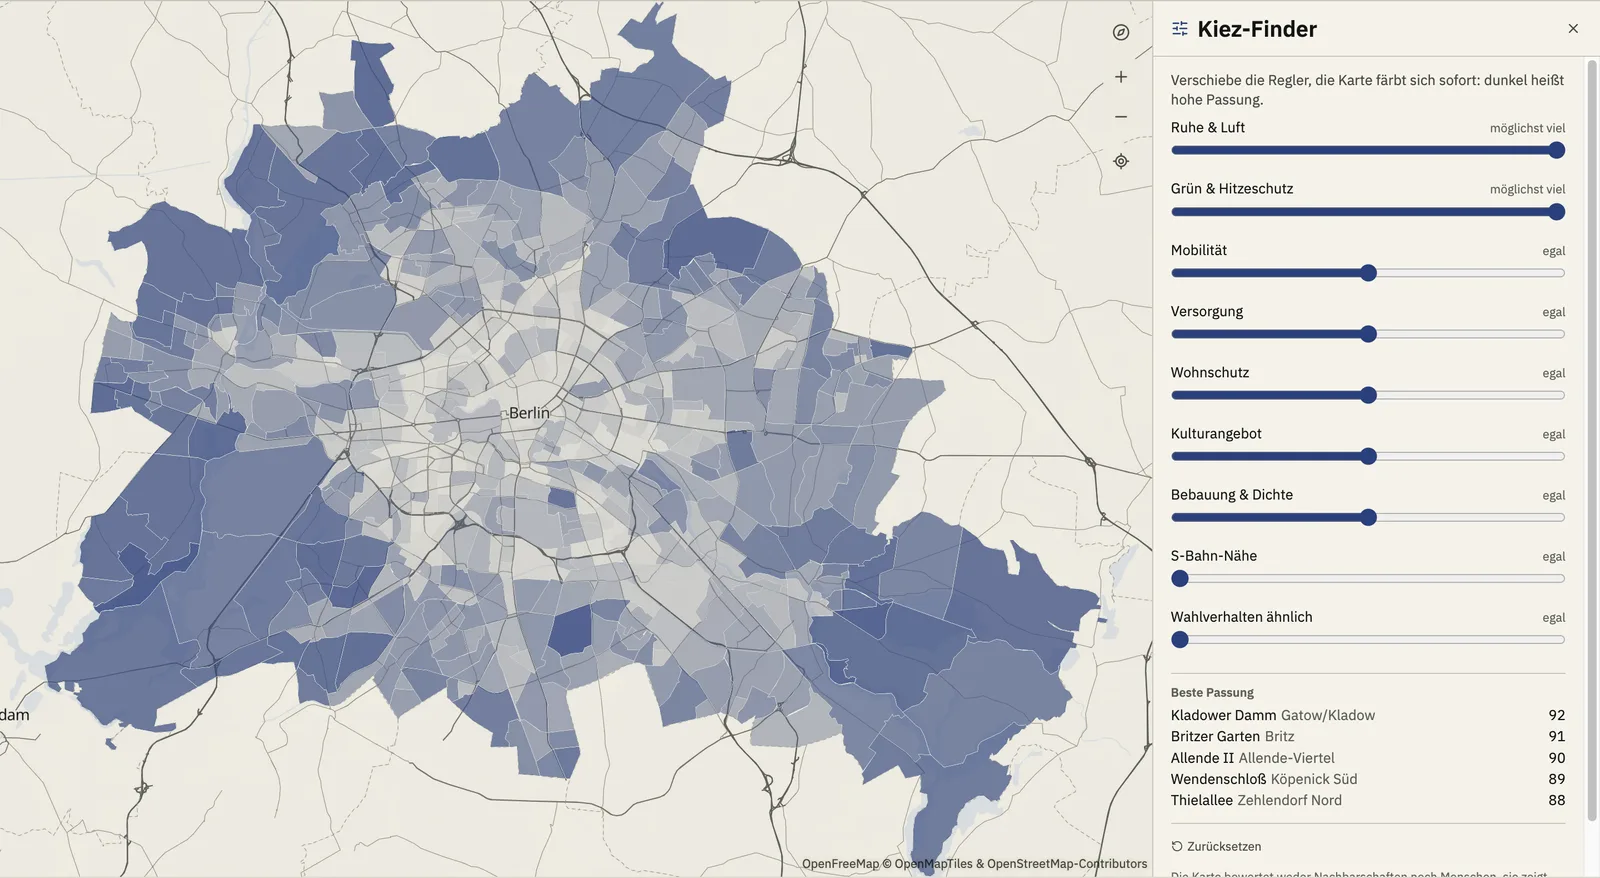
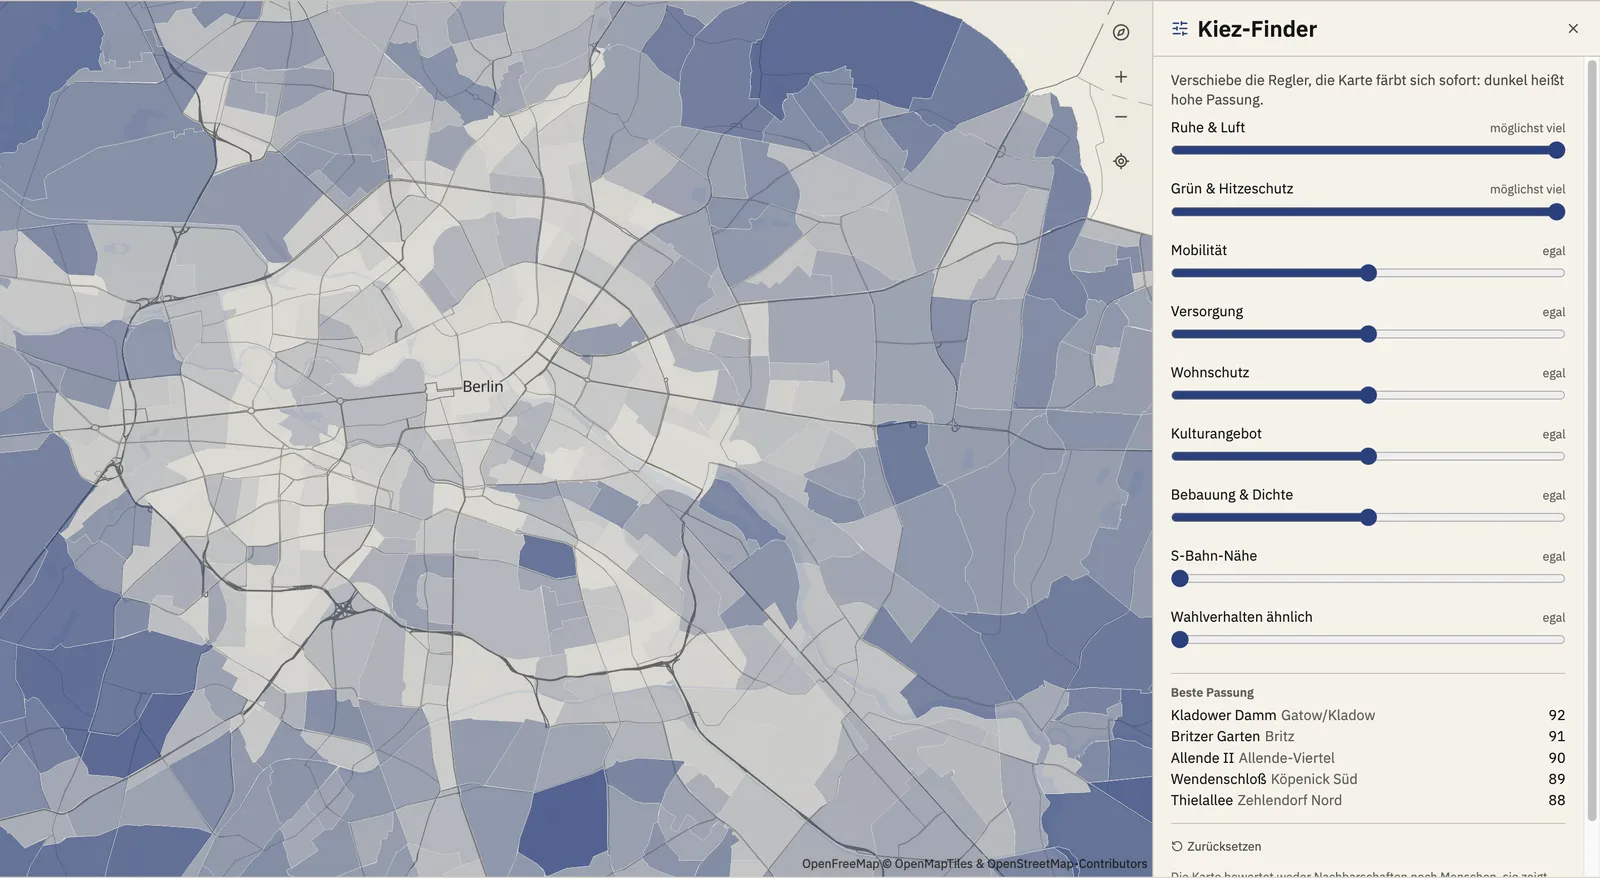
Zoom the homepage finder preview into the city
The hero already shows all of Berlin; two whole-city views stacked looked
repetitive. The finder preview now shows the inner city and the darker
outskirts one zoom step closer.

diff --git a/scripts/home-screenshots.ts b/scripts/home-screenshots.ts
@@ -75,7 +75,17 @@ const SHOTS: readonly Shot[] = [
 	},
 	{
 		name: 'finder',
-		path: HOME_PREVIEWS.finder.path
+		path: HOME_PREVIEWS.finder.path,
+		prepare: async (page) => {
+			// In die Innenstadt zoomen: Der Hero zeigt schon ganz Berlin (Matze 31.10.).
+			const zoomIn = page.getByRole('button', { name: /zoom in|hineinzoomen|vergrößern/i }).first();
+			for (let k = 0; k < 1; k++) {
+				await zoomIn.click();
+				await page.waitForTimeout(700);
+			}
+			await page.mouse.move(1300, 110);
+			await page.waitForTimeout(800);
+		}
 	},
 	{
 		name: 'wahlen',
